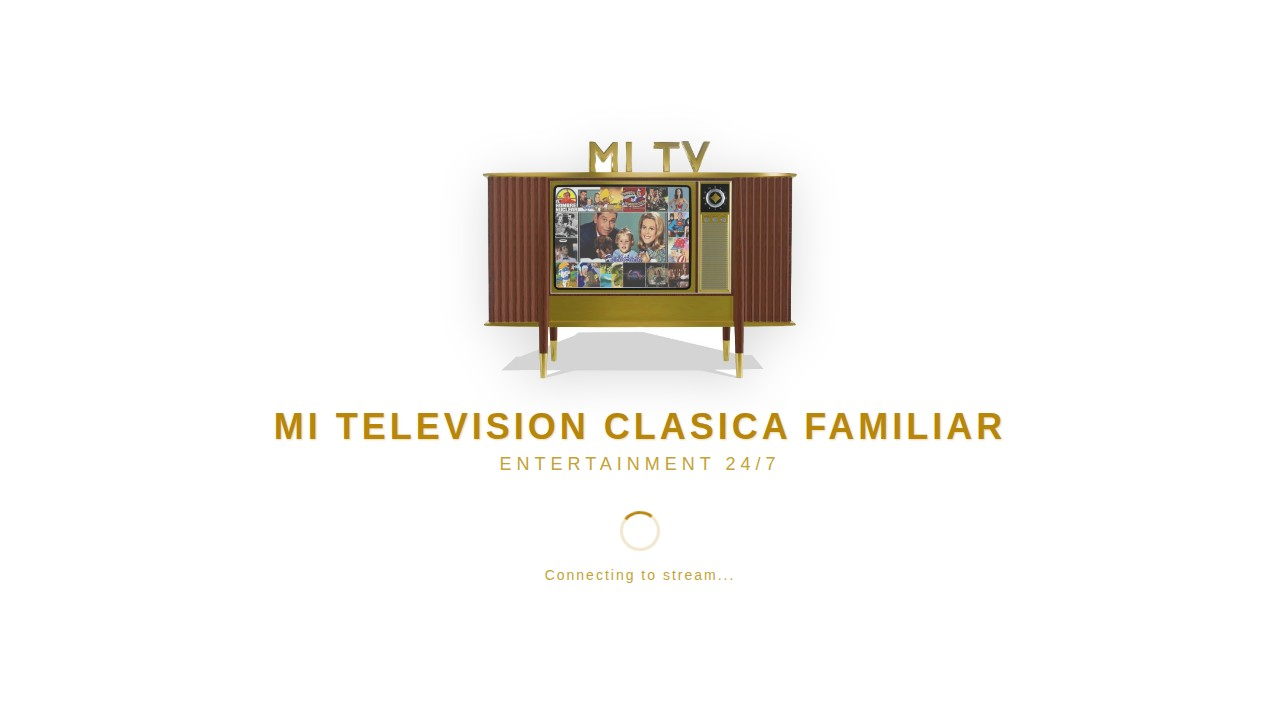
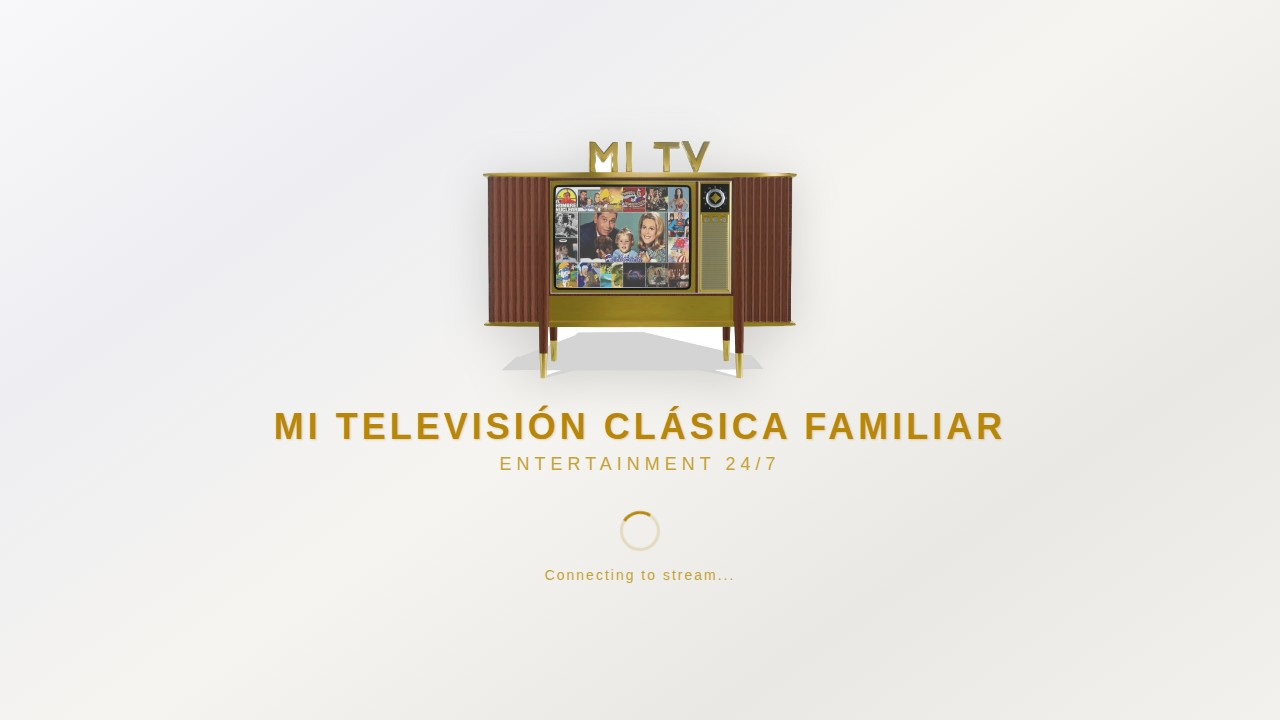
v1.4.0: Accented name + pearlescent background
- Name: MI TELEVISIÓN CLÁSICA FAMILIAR (proper Spanish accents)
- Background: pearlescent/shiny white gradient instead of flat white
- Popups updated to match shiny background

Changed region(s): [[0.4688, 0.3361, 1.0, 1.0], [0.5, 0.55, 0.5312, 0.5806], [0.4062, 0.55, 0.4375, 0.5806]]

diff --git a/index.html b/index.html
@@ -3,7 +3,7 @@
 <head>
     <meta charset="UTF-8">
     <meta name="viewport" content="width=1920, initial-scale=1.0">
-    <title>MI TELEVISION CLASICA FAMILIAR</title>
+    <title>MI TELEVISIÓN CLÁSICA FAMILIAR</title>
     <link rel="stylesheet" href="css/style.css">
 </head>
 <body>
@@ -16,9 +16,9 @@
     <!-- Loading Screen -->
     <div id="loading-screen">
         <div class="logo-container">
-            <img src="images/logo.png" alt="MI TELEVISION CLASICA FAMILIAR">
+            <img src="images/logo.png" alt="MI TELEVISIÓN CLÁSICA FAMILIAR">
         </div>
-        <div class="app-title">MI TELEVISION CLASICA FAMILIAR</div>
+        <div class="app-title">MI TELEVISIÓN CLÁSICA FAMILIAR</div>
         <div class="app-subtitle">ENTERTAINMENT 24/7</div>
         <div class="spinner"></div>
         <div class="loading-text">Connecting to stream...</div>
@@ -26,8 +26,8 @@
 
     <!-- Top Bar Overlay -->
     <div id="top-bar">
-        <img src="images/logo.png" alt="MI TELEVISION CLASICA FAMILIAR" class="logo-small">
-        <span class="channel-name">MI TELEVISION CLASICA FAMILIAR</span>
+        <img src="images/logo.png" alt="MI TELEVISIÓN CLÁSICA FAMILIAR" class="logo-small">
+        <span class="channel-name">MI TELEVISIÓN CLÁSICA FAMILIAR</span>
         <span class="live-badge">LIVE</span>
         <span class="clock" id="clock"></span>
     </div>
@@ -78,7 +78,7 @@
 
     <!-- Exit Confirmation Popup -->
     <div id="exit-popup">
-        <div class="exit-title">Exit MI TELEVISION CLASICA FAMILIAR?</div>
+        <div class="exit-title">Exit MI TELEVISIÓN CLÁSICA FAMILIAR?</div>
         <div class="exit-message">Are you sure you want to exit?</div>
         <div class="exit-buttons">
             <button class="popup-btn focused" id="btn-no">No</button>

diff --git a/css/style.css b/css/style.css
@@ -1,5 +1,5 @@
-/* MI TELEVISION CLASICA FAMILIAR - Samsung Tizen App Styles */
-/* White background + Gold lettering (matching MI TV logo) */
+/* MI TELEVISIÓN CLÁSICA FAMILIAR - Samsung Tizen App Styles */
+/* Pearlescent white background + Gold lettering (matching MI TV logo) */
 /* Coordinate space: 1920x1080 (Samsung scales to 4K automatically) */
 
 * {
@@ -17,7 +17,7 @@ body {
     width: 1920px;
     height: 1080px;
     overflow: hidden;
-    background: #ffffff;
+    background: linear-gradient(145deg, #f8f8fa 0%, #eeeef2 25%, #f5f4f0 50%, #eae8e4 75%, #f2f1ee 100%);
     font-family: 'SamsungOne', 'Segoe UI', Arial, sans-serif;
     color: #333333;
     -webkit-user-select: none;
@@ -42,7 +42,7 @@ body {
     width: 1920px;
     height: 1080px;
     z-index: 100;
-    background: #ffffff;
+    background: linear-gradient(145deg, #f8f8fa 0%, #eeeef2 25%, #f5f4f0 50%, #eae8e4 75%, #f2f1ee 100%);
     display: flex;
     flex-direction: column;
     align-items: center;
@@ -226,7 +226,7 @@ body {
     width: 1920px;
     height: 1080px;
     z-index: 50;
-    background: rgba(255, 255, 255, 0.7);
+    background: rgba(240, 238, 234, 0.75);
     display: none;
     flex-direction: column;
     align-items: center;
@@ -292,7 +292,7 @@ body {
     transform: translate(-50%, -50%);
     z-index: 200;
     width: 680px;
-    background: #ffffff;
+    background: linear-gradient(145deg, #f8f8fa, #eeeef0);
     border: 2px solid #daa520;
     border-radius: 20px;
     padding: 50px;
@@ -358,7 +358,7 @@ body {
     transform: translate(-50%, -50%);
     z-index: 200;
     width: 580px;
-    background: #ffffff;
+    background: linear-gradient(145deg, #f8f8fa, #eeeef0);
     border: 2px solid #daa520;
     border-radius: 20px;
     padding: 50px;
